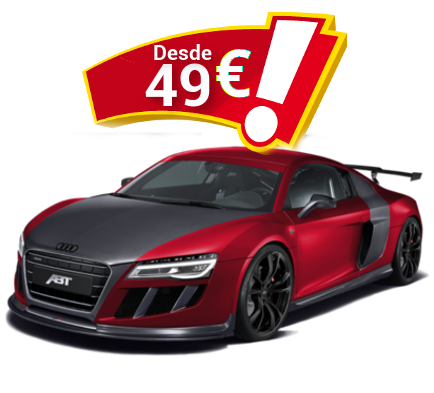
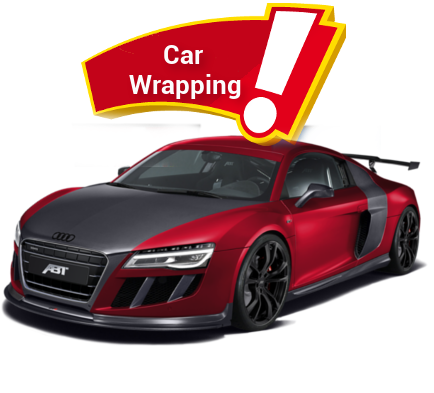
sliderimages

diff --git a/index.html b/index.html
@@ -207,15 +207,15 @@
                <div class="container">
                <div class="sixteen columns contain">
                 
-                 <h2 data-toptitle="30%" align="left" style=" font-family: Roboto-ThinItalic-webfont, 'Roboto-ThinItalic-webfont', Roboto-ThinItalic-webfont.woff;" style="font-size:20px">Arquitectura Gráfica</h2>
-                 <p data-bottomtext="39%">
-                 Frontline.<br> Backline. <br> Microperforado. </p>
-                 <div class="links" data-bottomlinks="20%">
-                   <a href="contact.html" class="button medium normal">Presupuesto GRATIS</a>
+                 <h2 data-toptitle="30%" align="left" style=" font-family: Roboto-ThinItalic-webfont, 'Roboto-ThinItalic-webfont', Roboto-ThinItalic-webfont.woff;" style="font-size:20px">Novedad!!</h2>
+                 <p data-bottomtext="50%">
+                    Vinilos para Arquitectura Gráfica</p>
+                 <div class="links" data-bottomlinks="30%">
+                   <a href="contact.html" class="button medium black">Presupuesto GRATIS</a>
                    
                  </div>
                  
-                 <img src="images/img/sliders/slider-1/slider-item-5.png" class="item"  data-topimage="8%"/>
+                 <img src="images/img/sliders/slider-1/slider-item-6.png" class="item"  data-topimage="16%"/>
                
                </div>
              </div><!-- End Container -->
